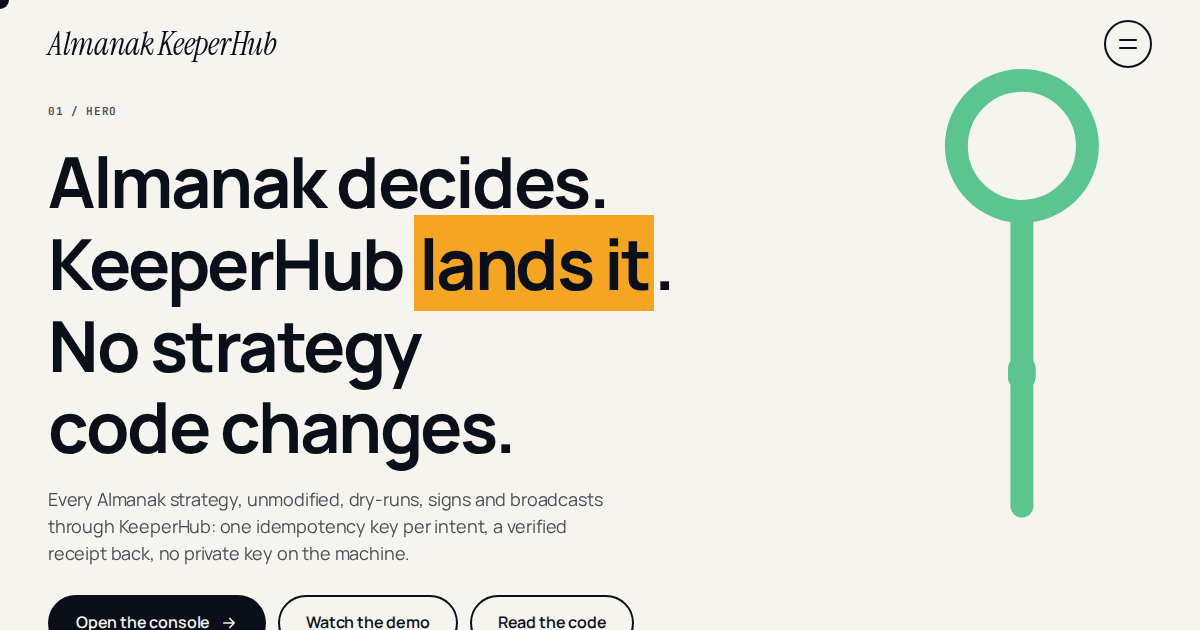
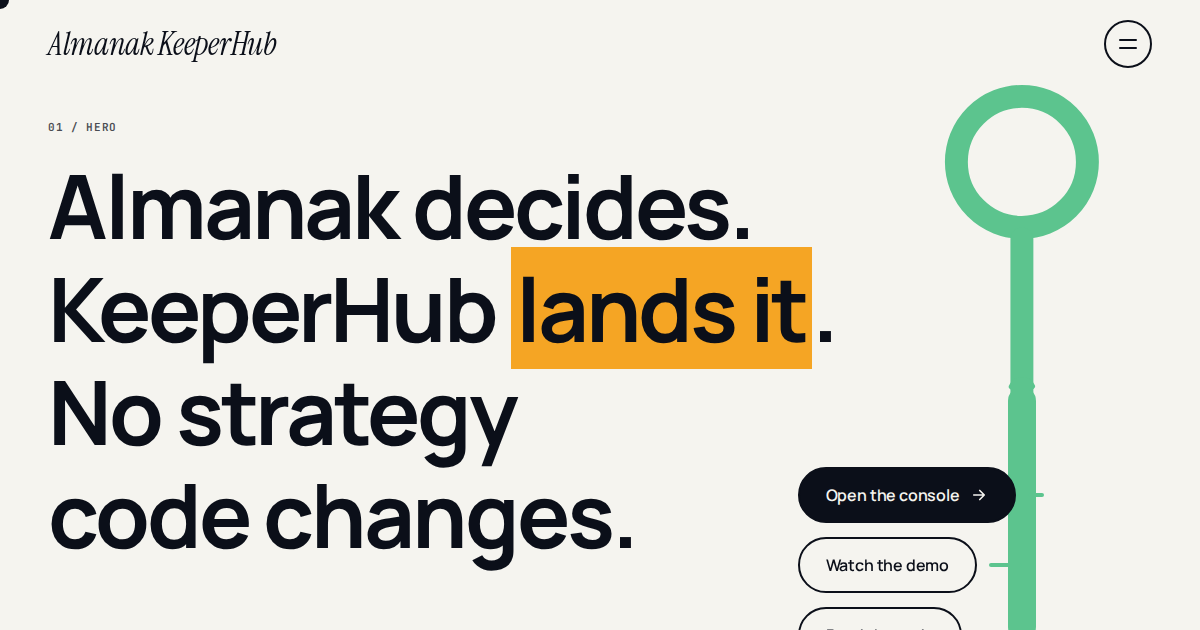
The hero as before, with the three buttons as stops on the pin's line at the right, each joined to it by a stub; a row under the text on phones

diff --git a/almanak_keeperhub/console/site.html b/almanak_keeperhub/console/site.html
@@ -33,7 +33,7 @@
     --sans:"Manrope",ui-sans-serif,system-ui,-apple-system,"Segoe UI",sans-serif;
     --serif:"Instrument Serif",Georgia,"Times New Roman",serif;
     --mono:"JetBrains Mono",ui-monospace,"SFMono-Regular",Menlo,Consolas,monospace;
-    --display-xl:clamp(48px,min(7.4vw,11.2vh),118px); --display:clamp(44px,5.5vw,80px); --h1:clamp(36px,4vw,64px); --h2:clamp(28px,3vw,48px); --h3:clamp(22px,2vw,32px);
+    --display-xl:clamp(52px,7.4vw,118px); --display:clamp(44px,5.5vw,80px); --h1:clamp(36px,4vw,64px); --h2:clamp(28px,3vw,48px); --h3:clamp(22px,2vw,32px);
     --body-lg:clamp(18px,1.2vw,22px); --body:16px; --label:13px; --micro:11px;
     --margin:clamp(20px,4vw,64px); --gutter:clamp(16px,1.7vw,24px); --band:clamp(72px,9vw,128px);
     --r-card:16px; --r-card-lg:24px; --r-pill:999px;
@@ -215,18 +215,23 @@
   @keyframes draw{to{stroke-dashoffset:0}}
 
   /* ---- hero ---- */
-  .hero{min-height:100vh;display:grid;align-content:end;padding-top:104px;padding-bottom:44px;position:relative}
+  .hero{min-height:100vh;display:grid;align-content:end;padding-top:120px;padding-bottom:48px;position:relative}
   .hero .g{align-items:end}
+  .hero .g>*{grid-row:1}
   .hero h1{max-width:none}
-  .hero .cta{display:flex;flex-wrap:wrap;gap:12px;margin-top:28px}
-  .hero .lede{margin-top:22px;color:var(--muted);font-size:var(--body-lg);line-height:1.5;max-width:52ch}
+  .hero .stops{grid-column:9/span 4;align-self:end;width:63.2%;display:flex;flex-direction:column;gap:14px;margin-bottom:6px;position:relative;z-index:1}
+  .hero .stops::before{content:"";position:absolute;right:-14px;top:-80px;bottom:22px;width:28px;border-radius:14px;background:var(--mint);z-index:-1}
+  .hero .stop{display:flex;align-items:center}
+  .hero .stop .btn{flex:0 0 auto}
+  .hero .stop .stub{flex:1;height:4px;min-width:16px;background:var(--mint);border-radius:2px;margin-left:12px}
+  .hero .lede{margin-top:28px;color:var(--muted);font-size:var(--body-lg);line-height:1.5;max-width:52ch}
   .pin{grid-column:10/span 3;justify-self:center;align-self:start;width:min(200px,18vw,26vh);margin-top:-40px}
   .pin svg{width:100%;height:auto;display:block;overflow:visible}
   .cue{position:absolute;right:var(--margin);bottom:40px;display:inline-flex;align-items:center;gap:8px;font-family:var(--mono);font-size:12px;font-weight:600;letter-spacing:.06em;text-transform:uppercase;color:var(--muted);transition:transform var(--d-medium) var(--ease)}
   .cue svg{width:14px;height:14px;animation:nudge 1.6s var(--ease) infinite}
   @keyframes nudge{0%,100%{transform:translateY(0)}50%{transform:translateY(6px)}}
   body[data-scrolled="true"] .cue{transform:translateY(120px)}
-  @media (max-width:1024px){ .pin{display:none} .cue{display:none} .hero{min-height:auto;padding-top:132px} }
+  @media (max-width:1024px){ .pin{display:none} .cue{display:none} .hero{min-height:auto;padding-top:132px} .hero .stops{grid-column:1/-1;width:auto;flex-direction:row;flex-wrap:wrap;gap:12px;margin-top:28px} .hero .stops::before{display:none} .hero .stop .stub{display:none} }
 
   /* ---- the connector spine crossing between sections ---- */
   .spine-v{position:absolute;width:28px;border-radius:14px;background:var(--mint);z-index:1;pointer-events:none;left:calc(var(--margin) + (100% - 2 * var(--margin)) * .882 - 14px);clip-path:inset(0 0 100% 0 round 14px);transition:clip-path 900ms cubic-bezier(.16,1,.3,1);will-change:clip-path}
@@ -350,17 +355,17 @@
         <div class="eyebrow" style="margin-bottom:28px">01 / Hero</div>
         <h1 class="display-xl rv"><span class="ln"><span>Almanak decides.</span></span><span class="ln"><span>KeeperHub <mark>lands it</mark>.</span></span><span class="ln"><span>No strategy</span></span><span class="ln"><span>code changes.</span></span></h1>
         <p class="lede rv"><span class="ln"><span>Every Almanak strategy, unmodified, dry-runs, signs and broadcasts through KeeperHub: one idempotency key per intent, a verified receipt back, no private key on the machine.</span></span></p>
-        <div class="cta">
-          <a class="btn" href="console/">Open the console <svg viewBox="0 0 24 24" fill="none" stroke="currentColor" stroke-width="2.2" stroke-linecap="round" stroke-linejoin="round"><path d="M5 12h14M13 6l6 6-6 6"/></svg></a>
-          <a class="btn ghost" href="#video">Watch the demo</a>
-          <a class="btn ghost" href="https://github.com/Prashant-thakur77/almanak-keeperhub">Read the code</a>
-        </div>
       </div>
       <div class="pin draw" id="pin">
         <svg viewBox="0 0 200 560" fill="none" aria-hidden="true">
           <circle cx="100" cy="100" r="80" stroke="#5CC48E" stroke-width="28" style="--len:506"/>
           <path d="M100 194 V540" stroke="#5CC48E" stroke-width="28" stroke-linecap="round" style="--len:350"/>
         </svg>
+      </div>
+      <div class="stops" aria-label="Start here">
+        <div class="stop"><a class="btn" href="console/">Open the console <svg viewBox="0 0 24 24" fill="none" stroke="currentColor" stroke-width="2.2" stroke-linecap="round" stroke-linejoin="round"><path d="M5 12h14M13 6l6 6-6 6"/></svg></a><span class="stub"></span></div>
+        <div class="stop"><a class="btn ghost" href="#video">Watch the demo</a><span class="stub"></span></div>
+        <div class="stop"><a class="btn ghost" href="https://github.com/Prashant-thakur77/almanak-keeperhub">Read the code</a><span class="stub"></span></div>
       </div>
     </div>
     <a class="cue" href="#live" data-scroll-cue><svg viewBox="0 0 24 24" fill="none" stroke="currentColor" stroke-width="2.2" stroke-linecap="round" stroke-linejoin="round"><path d="M12 4v16M6 14l6 6 6-6"/></svg> Scroll</a>

diff --git a/docs/index.html b/docs/index.html
@@ -33,7 +33,7 @@
     --sans:"Manrope",ui-sans-serif,system-ui,-apple-system,"Segoe UI",sans-serif;
     --serif:"Instrument Serif",Georgia,"Times New Roman",serif;
     --mono:"JetBrains Mono",ui-monospace,"SFMono-Regular",Menlo,Consolas,monospace;
-    --display-xl:clamp(48px,min(7.4vw,11.2vh),118px); --display:clamp(44px,5.5vw,80px); --h1:clamp(36px,4vw,64px); --h2:clamp(28px,3vw,48px); --h3:clamp(22px,2vw,32px);
+    --display-xl:clamp(52px,7.4vw,118px); --display:clamp(44px,5.5vw,80px); --h1:clamp(36px,4vw,64px); --h2:clamp(28px,3vw,48px); --h3:clamp(22px,2vw,32px);
     --body-lg:clamp(18px,1.2vw,22px); --body:16px; --label:13px; --micro:11px;
     --margin:clamp(20px,4vw,64px); --gutter:clamp(16px,1.7vw,24px); --band:clamp(72px,9vw,128px);
     --r-card:16px; --r-card-lg:24px; --r-pill:999px;
@@ -215,18 +215,23 @@
   @keyframes draw{to{stroke-dashoffset:0}}
 
   /* ---- hero ---- */
-  .hero{min-height:100vh;display:grid;align-content:end;padding-top:104px;padding-bottom:44px;position:relative}
+  .hero{min-height:100vh;display:grid;align-content:end;padding-top:120px;padding-bottom:48px;position:relative}
   .hero .g{align-items:end}
+  .hero .g>*{grid-row:1}
   .hero h1{max-width:none}
-  .hero .cta{display:flex;flex-wrap:wrap;gap:12px;margin-top:28px}
-  .hero .lede{margin-top:22px;color:var(--muted);font-size:var(--body-lg);line-height:1.5;max-width:52ch}
+  .hero .stops{grid-column:9/span 4;align-self:end;width:63.2%;display:flex;flex-direction:column;gap:14px;margin-bottom:6px;position:relative;z-index:1}
+  .hero .stops::before{content:"";position:absolute;right:-14px;top:-80px;bottom:22px;width:28px;border-radius:14px;background:var(--mint);z-index:-1}
+  .hero .stop{display:flex;align-items:center}
+  .hero .stop .btn{flex:0 0 auto}
+  .hero .stop .stub{flex:1;height:4px;min-width:16px;background:var(--mint);border-radius:2px;margin-left:12px}
+  .hero .lede{margin-top:28px;color:var(--muted);font-size:var(--body-lg);line-height:1.5;max-width:52ch}
   .pin{grid-column:10/span 3;justify-self:center;align-self:start;width:min(200px,18vw,26vh);margin-top:-40px}
   .pin svg{width:100%;height:auto;display:block;overflow:visible}
   .cue{position:absolute;right:var(--margin);bottom:40px;display:inline-flex;align-items:center;gap:8px;font-family:var(--mono);font-size:12px;font-weight:600;letter-spacing:.06em;text-transform:uppercase;color:var(--muted);transition:transform var(--d-medium) var(--ease)}
   .cue svg{width:14px;height:14px;animation:nudge 1.6s var(--ease) infinite}
   @keyframes nudge{0%,100%{transform:translateY(0)}50%{transform:translateY(6px)}}
   body[data-scrolled="true"] .cue{transform:translateY(120px)}
-  @media (max-width:1024px){ .pin{display:none} .cue{display:none} .hero{min-height:auto;padding-top:132px} }
+  @media (max-width:1024px){ .pin{display:none} .cue{display:none} .hero{min-height:auto;padding-top:132px} .hero .stops{grid-column:1/-1;width:auto;flex-direction:row;flex-wrap:wrap;gap:12px;margin-top:28px} .hero .stops::before{display:none} .hero .stop .stub{display:none} }
 
   /* ---- the connector spine crossing between sections ---- */
   .spine-v{position:absolute;width:28px;border-radius:14px;background:var(--mint);z-index:1;pointer-events:none;left:calc(var(--margin) + (100% - 2 * var(--margin)) * .882 - 14px);clip-path:inset(0 0 100% 0 round 14px);transition:clip-path 900ms cubic-bezier(.16,1,.3,1);will-change:clip-path}
@@ -350,17 +355,17 @@
         <div class="eyebrow" style="margin-bottom:28px">01 / Hero</div>
         <h1 class="display-xl rv"><span class="ln"><span>Almanak decides.</span></span><span class="ln"><span>KeeperHub <mark>lands it</mark>.</span></span><span class="ln"><span>No strategy</span></span><span class="ln"><span>code changes.</span></span></h1>
         <p class="lede rv"><span class="ln"><span>Every Almanak strategy, unmodified, dry-runs, signs and broadcasts through KeeperHub: one idempotency key per intent, a verified receipt back, no private key on the machine.</span></span></p>
-        <div class="cta">
-          <a class="btn" href="console/">Open the console <svg viewBox="0 0 24 24" fill="none" stroke="currentColor" stroke-width="2.2" stroke-linecap="round" stroke-linejoin="round"><path d="M5 12h14M13 6l6 6-6 6"/></svg></a>
-          <a class="btn ghost" href="#video">Watch the demo</a>
-          <a class="btn ghost" href="https://github.com/Prashant-thakur77/almanak-keeperhub">Read the code</a>
-        </div>
       </div>
       <div class="pin draw" id="pin">
         <svg viewBox="0 0 200 560" fill="none" aria-hidden="true">
           <circle cx="100" cy="100" r="80" stroke="#5CC48E" stroke-width="28" style="--len:506"/>
           <path d="M100 194 V540" stroke="#5CC48E" stroke-width="28" stroke-linecap="round" style="--len:350"/>
         </svg>
+      </div>
+      <div class="stops" aria-label="Start here">
+        <div class="stop"><a class="btn" href="console/">Open the console <svg viewBox="0 0 24 24" fill="none" stroke="currentColor" stroke-width="2.2" stroke-linecap="round" stroke-linejoin="round"><path d="M5 12h14M13 6l6 6-6 6"/></svg></a><span class="stub"></span></div>
+        <div class="stop"><a class="btn ghost" href="#video">Watch the demo</a><span class="stub"></span></div>
+        <div class="stop"><a class="btn ghost" href="https://github.com/Prashant-thakur77/almanak-keeperhub">Read the code</a><span class="stub"></span></div>
       </div>
     </div>
     <a class="cue" href="#live" data-scroll-cue><svg viewBox="0 0 24 24" fill="none" stroke="currentColor" stroke-width="2.2" stroke-linecap="round" stroke-linejoin="round"><path d="M12 4v16M6 14l6 6 6-6"/></svg> Scroll</a>
